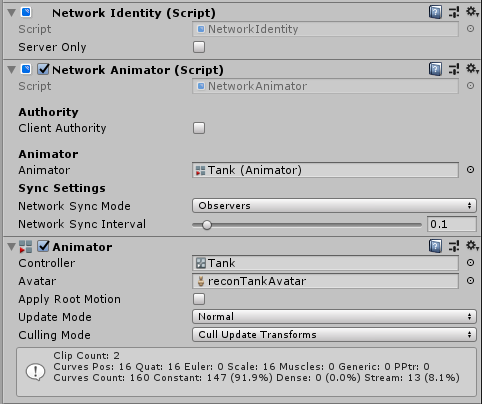
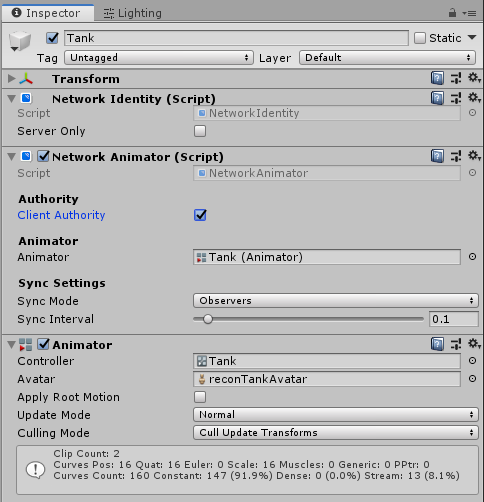
doc: Updated NetTrans and NetAnim docs and images

Changed region(s): [[0.0, 0.0, 1.0, 1.0], [0.3734, 0.3861, 0.9959, 0.4455]]

diff --git a/doc/Components/NetworkAnimator.md b/doc/Components/NetworkAnimator.md
@@ -6,14 +6,21 @@ Note that if you create a Network Animator component on an empty game object, Mi
 
 ![The Network Animator component in the Inspector window](NetworkAnimatorComponent.png)
 
- - **Animator**  
-Use this field to define the Animator component you want the Network Animator to synchronize with.
+-   **Client Authority**  
+    Enable this to have changes to animation parameters sent from client to server.
+
+-   **Animator**  
+    Use this field to define the Animator component you want the Network Animator to synchronize with.
+
+Normally, changes are sent to all observers of the object this component is on.  Setting **Sync Mode** to Owner Only makes the changes private between the server and the client owner of the object.
+
+You can use the **Sync Interval** to specify how often it syncs (in seconds).
 
 ## Details
 
-The Network Animator ensures the synchronization of game object animation across the network
+The Network Animator ensures the synchronization of game object animation across the network, meaning that all players see the animation happen at the same. There are two kinds of authority for networked animation (see documentation on [network authority](../Guides/Authority.md)):
 
--   meaning that all players see the animation happen at the same. There are two kinds of authority for networked animation (see documentation on [network authority](../Guides/Authority.md)):
+>   **NOTE:** Animator Triggers are not synced directly. Call `NetworkAnimator.SetTrigger` instead. A game object with authority can use the SetTrigger function to fire an animation trigger on other clients.
+
 -   If the game object has authority on the client, you should animate it locally on the client that owns the game object. That client sends the animation state information to the server, which broadcasts it to all the other clients. For example, this may be suitable for player characters with client authority.
 -   If the game object has authority on the server, then you should animate it on the server. The server then sends state information to all clients. This is common for animated game objects that are not related to a specific client, such as scene objects and non-player characters, or server-authoritative clients.
--   Animator Triggers are not synced directly. Call `NetworkAnimator.SetTrigger` instead. A game object with authority can use the SetTrigger function to fire an animation trigger on other clients.

diff --git a/doc/Components/NetworkTransform.md b/doc/Components/NetworkTransform.md
@@ -1,6 +1,6 @@
 # Network Transform
 
-[![Network transform video tutorial](../images/video_tutorial.png)](https://www.youtube.com/watch?v=Z0th49NERl4&list=PLkx8oFug638oBYF5EOwsSS-gOVBXj1dkP&index=3)
+<https://www.youtube.com/watch?v=Z0th49NERl4&list=PLkx8oFug638oBYF5EOwsSS-gOVBXj1dkP&index=3>
 
 The Network Transform component synchronizes the position, rotation, and scale of networked game objects across the network.
 
@@ -8,10 +8,10 @@ A game object with a Network Transform component must also have a Network Identi
 
 ![The Network Transform component](NetworkTransform.png)
 
-By default, Network Transform is server-authoritative unless you check the box for **Client Authority**.  Client Authority applies to player objects as well as non-player objects that have been specifically assigned to a client.
+By default, Network Transform is server-authoritative unless you check the box for **Client Authority**. Client Authority applies to player objects as well as non-player objects that have been specifically assigned to a client, but only for this component.  With this enabled, position changes are send from the client to the server.
 
-Under **Sensitivity**, you can set the minimum thresholds of change to the transform values in order for network messages to be generated.  This helps minimize network "noise" for minor twitch and jitter.
+Under **Sensitivity**, you can set the minimum thresholds of change to the transform values in order for network messages to be generated. This helps minimize network "noise" for minor twitch and jitter.
 
-You can modify **Compress Rotation** to save some bandwidth when synchronizing the rotation.
+Normally, changes are sent to all observers of the object this component is on.  Setting **Sync Mode** to Owner Only makes the changes private between the server and the client owner of the object.
 
-You can use the **Network Sync Interval** to specify how often it syncs (in seconds).
+You can use the **Sync Interval** to specify how often it syncs (in seconds).

diff --git a/doc/Components/NetworkTransformChild.md b/doc/Components/NetworkTransformChild.md
@@ -6,7 +6,7 @@ The Network Transform Child component synchronizes the position and rotation of 
 
 To use the Network Transform Child component, attach it to the same parent game object as the Network Transform, and use the Target field to define which child game object to apply the component settings to. You can have multiple Network Transform Child components on one parent game object .
 
-![The Network Transform Child component](NetworkTransformChild.png)
+![The Network Transform Child component](NetworkTransform.png)
 
 You can modify **Compress Rotation** to save some bandwidth when synchronizing the rotation. You can use the **Network Sync Interval** to specify how often it syncs (in seconds).
 
